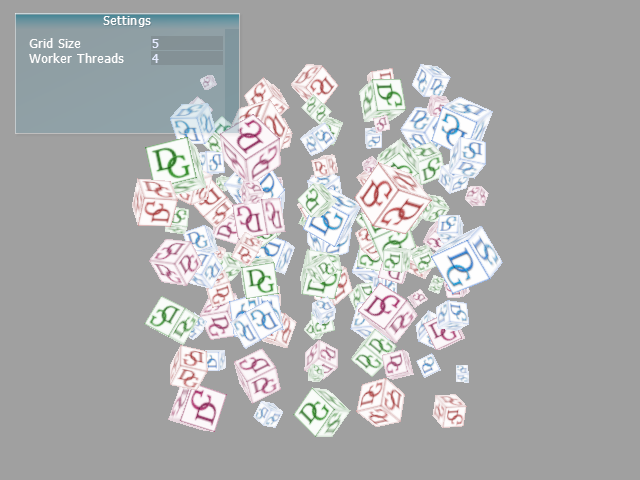
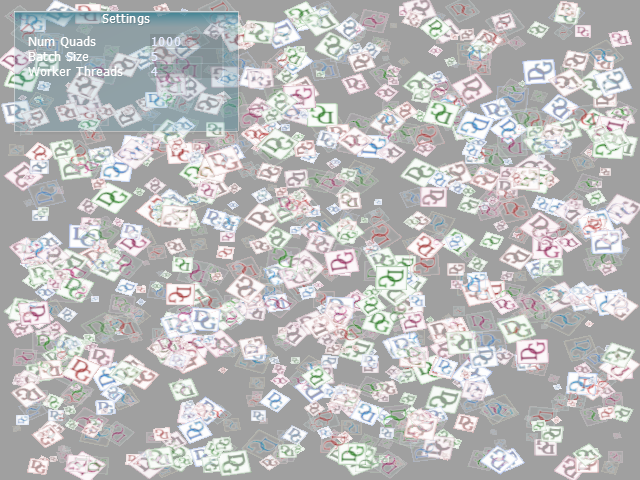
Updated readme for Tutorial09

diff --git a/Tutorials/Tutorial09_Quads/readme.md b/Tutorials/Tutorial09_Quads/readme.md
@@ -1,5 +1,172 @@
 # Tutorial09 - Quads
 
-This tutorial shows how to render 2D quads.
+This tutorial shows how to render multiple 2D quads, frequently swithcing textures and blend modes.
 
 ![](Screenshot.png)
+
+The tutorial is based on [Tutorial06 - Multithreading](../Tutorial06_Multithreading), but renders
+2D quads instead of 3D cubes and changes the states frequently. It also demonstrates *Pipeline State
+compatibility feature* - if two PSOs share the same shader resource layout, they can use shader resource
+binding objects interchangeably, i.e. SRBs created by one PSO can be committed when another PSO is bound.
+
+## Shaders
+
+The tutorial has two rendering modes, non-batched (Batch Size parameter equals 1) and batched 
+(Batch Size parameter greater than 1). In the first mode, the quads are rendered one-by-one.
+In the second mode, the quads are rendered in small batches, which is more efficient.
+
+Non-batched vertex shader generates two triangles and applies rotation, scale and offset transformation.
+It does not use any input other than the vertex id. Quad transformation 2x2 matrix is packed into one `float4` vector.
+
+```hlsl
+cbuffer QuadAttribs
+{
+    float4 g_QuadRotationAndScale; // float2x2 doesn't work
+    float4 g_QuadCenter;
+};
+
+struct PSInput 
+{ 
+    float4 Pos : SV_POSITION; 
+    float2 uv : TEX_COORD;
+};
+
+PSInput main(in uint VertID : SV_VertexID) 
+{
+    float4 pos_uv[4];
+    pos_uv[0] = float4(-1.0,+1.0, 0.0,0.0);
+    pos_uv[1] = float4(-1.0,-1.0, 0.0,1.0);
+    pos_uv[2] = float4(+1.0,+1.0, 1.0,0.0);
+    pos_uv[3] = float4(+1.0,-1.0, 1.0,1.0);
+
+    float2 pos = pos_uv[VertID].xy;
+    float2x2 mat = MatrixFromRows(g_QuadRotationAndScale.xy, g_QuadRotationAndScale.zw);
+    pos = mul(pos, mat);
+    pos += g_QuadCenter.xy;
+    PSInput ps;
+    ps.Pos = float4(pos, 0.0, 1.0);
+    ps.uv = pos_uv[VertID].zw;
+    return ps;
+}
+```
+
+`MatrixFromRows()` is a function defined by the engine that creates a matrix from rows, in an API-spesific fashion.
+
+Non-batched pixel shader is straightforward and simply samples the texture:
+
+```hlsl
+Texture2D g_Texture;
+SamplerState g_Texture_sampler; // By convention, texture samplers must use _sampler suffix
+
+struct PSInput 
+{ 
+    float4 Pos : SV_POSITION; 
+    float2 uv : TEX_COORD;
+};
+
+float4 main(PSInput ps_in) : SV_TARGET
+{
+    return g_Texture.Sample(g_Texture_sampler, ps_in.uv).rgbg;
+}
+```
+
+In batched mode, instancing is used to rendered a number of quads in the same draw call. The quad
+attributes (rotation, scale, translation) are fetched by the vertex shader from the vertex buffer:
+
+```hlsl
+struct PSInput 
+{ 
+    float4 Pos : SV_POSITION; 
+    float2 uv : TEX_COORD;
+    float TexIndex : TEX_ARRAY_INDEX;
+};
+
+PSInput main(in uint VertID : SV_VertexID,
+             in float4 QuadRotationAndScale : ATTRIB0,
+             in float2 QuadCenter : ATTRIB1,
+             in float TexArrInd : ATTRIB2)
+{
+    float4 pos_uv[4];
+    pos_uv[0] = float4(-1.0,+1.0, 0.0,0.0);
+    pos_uv[1] = float4(-1.0,-1.0, 0.0,1.0);
+    pos_uv[2] = float4(+1.0,+1.0, 1.0,0.0);
+    pos_uv[3] = float4(+1.0,-1.0, 1.0,1.0);
+
+    float2 pos = pos_uv[VertID].xy;
+    float2x2 mat = MatrixFromRows(QuadRotationAndScale.xy, QuadRotationAndScale.zw);
+    pos = mul(pos, mat);
+    pos += QuadCenter.xy;
+    PSInput ps;
+    ps.Pos = float4(pos, 0.0, 1.0);
+    ps.uv = pos_uv[VertID].zw;
+    ps.TexIndex = TexArrInd;
+    return ps;
+}
+```
+
+Quad textures are packed into the texture array. The vertex shader passes texture array index over to 
+the pixel shader that uses the index to select texture array slice:
+
+```hlsl
+Texture2DArray g_Texture;
+SamplerState g_Texture_sampler; // By convention, texture samplers must use _sampler suffix
+
+struct PSInput
+{
+    float4 Pos : SV_POSITION;
+    float2 uv : TEX_COORD;
+    float TexIndex : TEX_ARRAY_INDEX;
+};
+
+float4 main(PSInput ps_in) : SV_TARGET
+{
+    return g_Texture.Sample(g_Texture_sampler, float3(ps_in.uv, ps_in.TexIndex)).rgbg;
+}
+```
+
+## Initializing Pipeline States and Shader Resource Binding Objects
+
+The tutorial creates multiple PSO objects that share the same shaders, but define different blend modes.
+Two pipeline states that share the same shader resource layout are called *compatible*. The enigne exposes
+`IPipelineState::IsCompatibleWith()` method that checks if two pipeline states are compatible.
+Compatible pipeline states can use shader resource binding objects interchangeably. We create shader
+resource binding objects using the first pipeline state version, but use them with other PSOs:
+
+```cpp
+for (int tex = 0; tex < NumTextures; ++tex)
+{
+    // Create one Shader Resource Binding for every texture
+    // http://diligentgraphics.com/2016/03/23/resource-binding-model-in-diligent-engine-2-0/
+    m_pPSO[0][0]->CreateShaderResourceBinding(&m_SRB[tex]);
+    m_SRB[tex]->GetVariable(SHADER_TYPE_PIXEL, "g_Texture")->Set(m_TextureSRV[tex]);
+}
+
+m_pPSO[1][0]->CreateShaderResourceBinding(&m_BatchSRB);
+m_BatchSRB->GetVariable(SHADER_TYPE_PIXEL, "g_Texture")->Set(m_TexArraySRV);
+```
+
+Note that we create one SRB per texture for non-batched mode and just one SRB for batched mode.
+
+## Rendering
+
+The tutorial largely uses the same rendering scheme as [Tutorial06 - Multithreading](../Tutorial06_Multithreading). 
+If multithreading is enabled, command lists are recorded in parallel by multiple threads and are then executed by the
+immediate context. Few important things to note:
+
+Resources are transitioned to correct states before render loop starts:
+
+```cpp
+for (size_t i = 0; i < _countof(m_SRB); ++i)
+    m_pImmediateContext->TransitionShaderResources(m_pPSO[0][0], m_SRB[i]);
+m_pImmediateContext->TransitionShaderResources(m_pPSO[1][0], m_BatchSRB);
+```
+
+This avoids checking the states inside every draw command:
+
+```cpp
+// Shader resources have been explicitly transitioned to correct states, so
+// no COMMIT_SHADER_RESOURCES_FLAG_TRANSITION_RESOURCES flag needed
+pCtx->CommitShaderResources(m_SRB[CurrInstData.TextureInd], 0);
+```
+
+Every thread uses its own rendering context to avoid contention.

diff --git a/README.md b/README.md
@@ -59,6 +59,12 @@ This tutorial shows how to use geometry shader to render smooth wireframe.
 This tutorial shows how to use hardware tessellation to implement simple adaptive terrain 
 rendering algorithm.
 
+## [Tutorial 09 - Quads](Tutorials/Tutorial09_Quads)
+
+![](Tutorials/Tutorial09_Quads/Screenshot.png)
+
+This tutorial shows how to render multiple 2D quads, frequently swithcing textures and blend modes.
+
 
 # Samples
 
